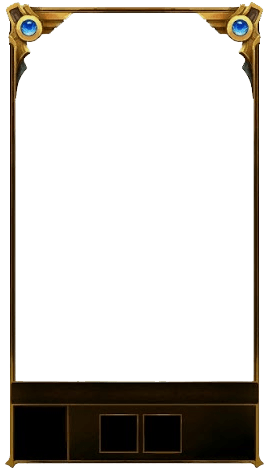
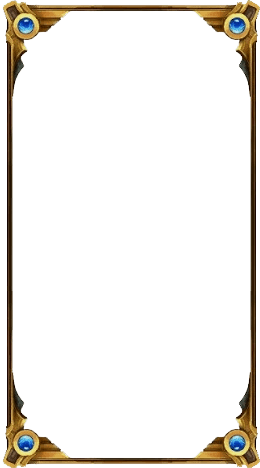
ddd

Changed region(s): [[0.0, 0.0, 1.0, 1.0]]

diff --git a/img/lolbox.html b/img/lolbox.html
@@ -7,9 +7,9 @@ body {
 div {
 
     border-style: solid !important;
-    border-width: 20px !important;
-    -webkit-border-image: url(https://laafaan.github.io/BrCfgs/img/lolborder.png) 49 71 49 69 stretch !important;
-    border-image: url(https://laafaan.github.io/BrCfgs/img/lolborder.png) 49 71 49 69 fill stretch !important;
+    border-width: 25px !important;
+    -webkit-border-image: url(https://laafaan.github.io/BrCfgs/img/lolborder.png) 80 67 88 stretch !important;
+    border-image: url(https://laafaan.github.io/BrCfgs/img/lolborder.png) 80 67 88 fill stretch !important;
 
     background: rgba(255,255,255,0);
 
